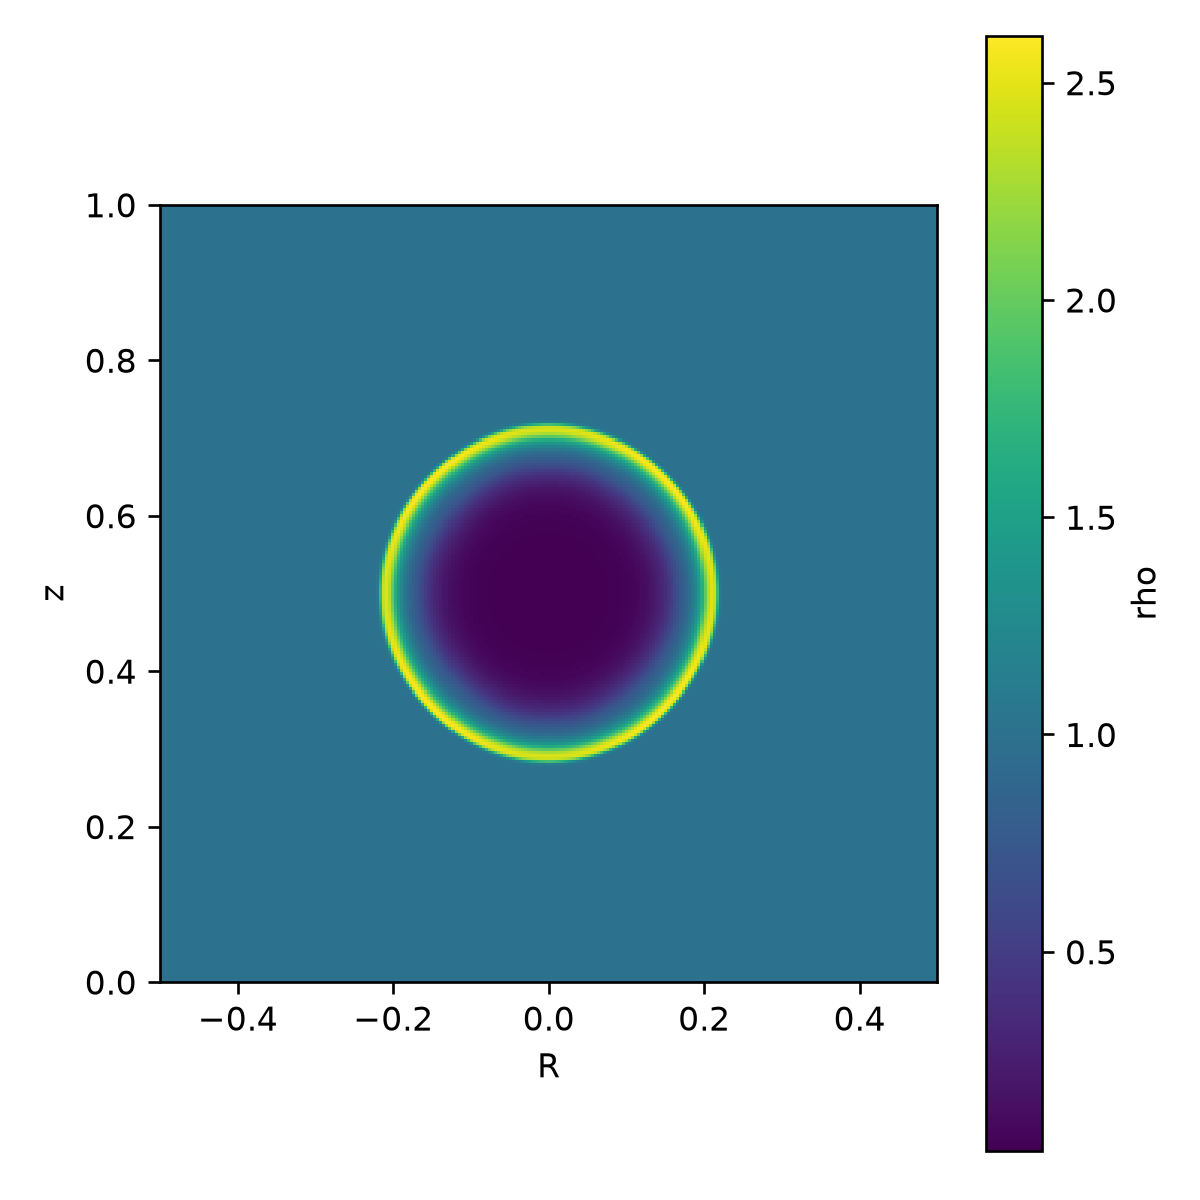
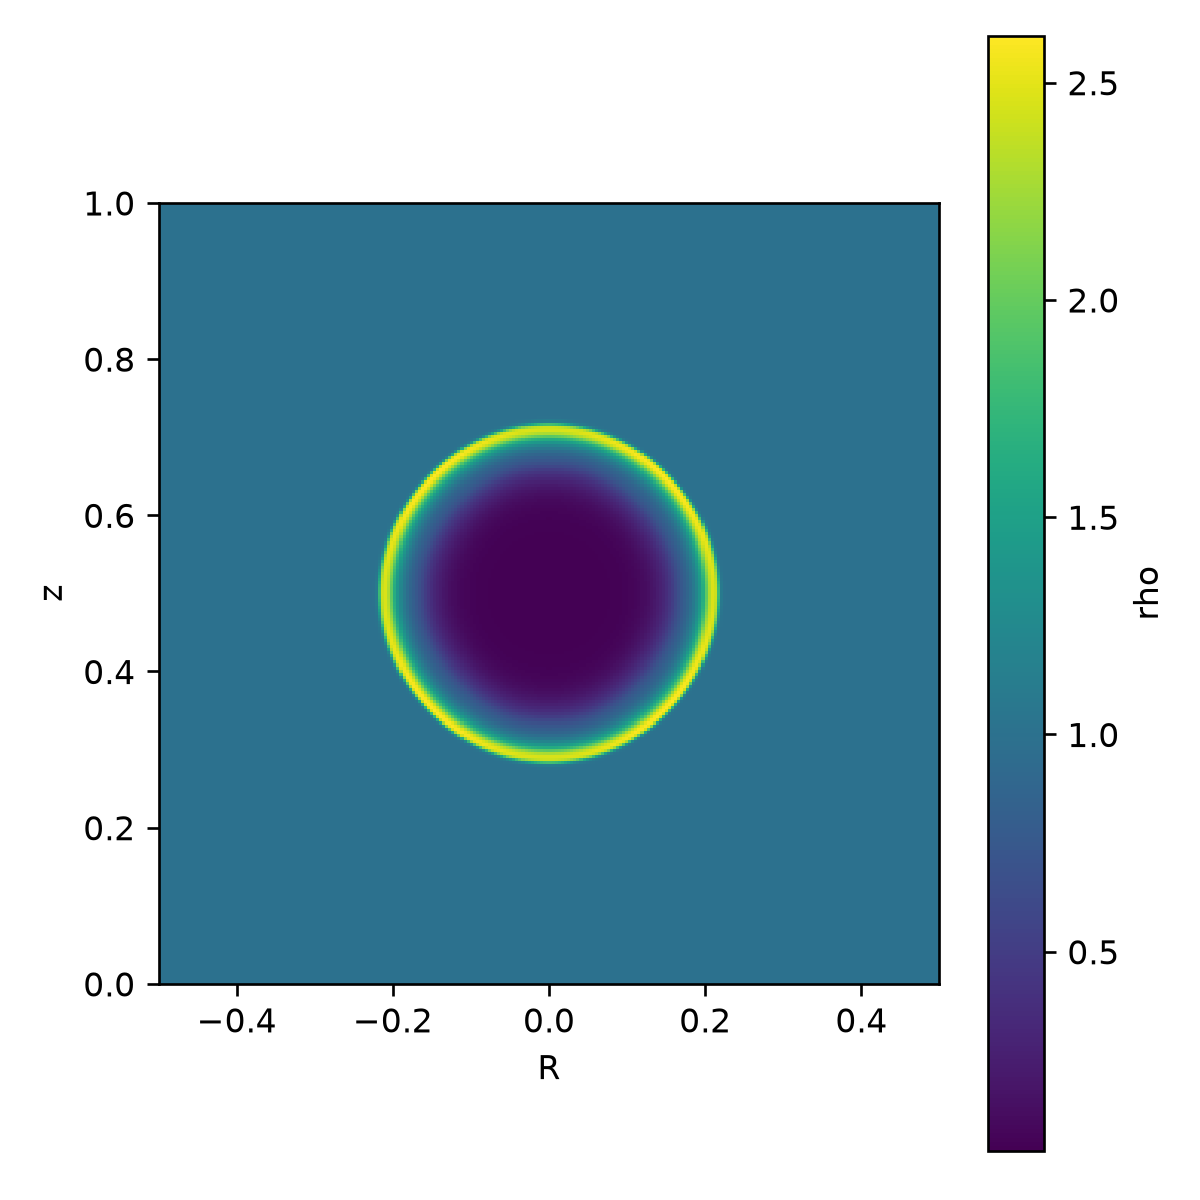
ruff check

diff --git a/adirondax/simulation.py b/adirondax/simulation.py
@@ -1,20 +1,21 @@
-import jax
-import jax.numpy as jnp
-import orbax.checkpoint as ocp
 import json
 import os
 
+import jax
+import jax.numpy as jnp
+import orbax.checkpoint as ocp
+
 from .constants import constants
+from .gravity import calculate_gravitational_potential, get_acceleration
 from .hydro.euler2d import (
+    hydro_euler2d_accelerate,
     hydro_euler2d_fluxes,
     hydro_euler2d_timestep,
-    hydro_euler2d_accelerate,
 )
-from .hydro.mhd2d import hydro_mhd2d_fluxes, hydro_mhd2d_timestep
 from .hydro.geometry import get_geometry
-from .quantum import quantum_kick, quantum_drift, quantum_timestep
-from .gravity import calculate_gravitational_potential, get_acceleration
-from .utils import set_up_parameters, print_parameters
+from .hydro.mhd2d import hydro_mhd2d_fluxes, hydro_mhd2d_timestep
+from .quantum import quantum_drift, quantum_kick, quantum_timestep
+from .utils import print_parameters, set_up_parameters
 from .visualization import plot_sim
 
 
@@ -96,13 +97,14 @@ class Simulation:
                     "Gravity only implemented for periodic boundary conditions."
                 )
 
-        if self.params["output"]["save"] and self.params["time"]["num_timesteps"] > 0:
-            if (
-                self.params["time"]["num_timesteps"]
-                % self.params["output"]["num_checkpoints"]
-                != 0
-            ):
-                raise ValueError("'num_checkpoints' must divide 'num_timesteps'")
+        if (
+            self.params["output"]["save"]
+            and self.params["time"]["num_timesteps"] > 0
+            and self.params["time"]["num_timesteps"]
+            % self.params["output"]["num_checkpoints"]
+            != 0
+        ):
+            raise ValueError("'num_checkpoints' must divide 'num_timesteps'")
 
         # print info
         if jax.process_index() == 0:
@@ -269,14 +271,14 @@ class Simulation:
         bc_x = self.params["mesh"]["boundary_condition"][0]
         bc_y = self.params["mesh"]["boundary_condition"][1]
 
-        use_adaptive_timesteps = True if nt < 1 else False
+        use_adaptive_timesteps = nt < 1
         dt_ref = jnp.nan if use_adaptive_timesteps else t_span / nt
 
         # boundary conditions. The cylindrical axis is a reflecting boundary
         # with an extra twist: the azimuthal velocity reverses through R=0.
-        bc_x_is_axis = True if bc_x == "axis" else False
-        bc_x_is_reflective = True if bc_x in ("reflective", "axis") else False
-        bc_y_is_reflective = True if bc_y == "reflective" else False
+        bc_x_is_axis = bc_x == "axis"
+        bc_x_is_reflective = bc_x in ("reflective", "axis")
+        bc_y_is_reflective = bc_y == "reflective"
 
         # mesh metric factors: 'geom' on the bare grid, 'geom_work' on the
         # ghost-extended grid the flux routine operates on
@@ -317,9 +319,7 @@ class Simulation:
         save = self.params["output"]["save"]
         num_checkpoints = self.params["output"]["num_checkpoints"]
         if save:
-            checkpoint_dir = checkpoint_dir = os.path.join(
-                os.getcwd(), self.params["output"]["path"]
-            )
+            checkpoint_dir = os.path.join(os.getcwd(), self.params["output"]["path"])
             path = os.path.join(os.getcwd(), checkpoint_dir)
             if jax.process_index() == 0:
                 path = ocp.test_utils.erase_and_create_empty(checkpoint_dir)
@@ -498,7 +498,7 @@ class Simulation:
                     return step_fn(carry), None
 
                 if save:
-                    nt_sub = int(round(nt / num_checkpoints))
+                    nt_sub = round(nt / num_checkpoints)
                     for i in range(1, num_checkpoints + 1):
                         carry, _ = jax.lax.scan(
                             step_fn_stacked, carry, xs=None, length=nt_sub

diff --git a/examples/logo_inverse_problem/logo_inverse_problem_optax.py b/examples/logo_inverse_problem/logo_inverse_problem_optax.py
@@ -1,18 +1,14 @@
+import time
+from typing import NamedTuple
+
+import chex
 import jax
 import jax.numpy as jnp
-
-# TODO: REMOVE THE FOLLOWING LINES
-import sys
-
-sys.path.append("../../")
+import matplotlib.image as img
+import matplotlib.pyplot as plt
+import optax
 
 import adirondax as adx
-import chex
-from typing import NamedTuple
-import optax
-import time
-import matplotlib.pyplot as plt
-import matplotlib.image as img
 
 """
 Solve an Inverse-Problem that finds the initial wave function phases that

diff --git a/examples/logo_inverse_problem/logo_inverse_problem.py b/examples/logo_inverse_problem/logo_inverse_problem.py
@@ -1,16 +1,12 @@
+import time
+
 import jax
 import jax.numpy as jnp
-
-# TODO: REMOVE THE FOLLOWING LINES
-import sys
-
-sys.path.append("../../")
+import matplotlib.image as img
+import matplotlib.pyplot as plt
+from jaxopt import ScipyMinimize
 
 import adirondax as adx
-from jaxopt import ScipyMinimize
-import time
-import matplotlib.pyplot as plt
-import matplotlib.image as img
 
 """
 Solve an Inverse-Problem that finds the initial wave function phases that

diff --git a/examples/orszag_tang/orszag_tang.py b/examples/orszag_tang/orszag_tang.py
@@ -1,14 +1,10 @@
+import time
+
 import jax.numpy as jnp
-
-# TODO: REMOVE THE FOLLOWING LINES
-import sys
-
-sys.path.append("../../")
+import matplotlib.pyplot as plt
 
 import adirondax as adx
-from adirondax.hydro.common2d import get_curl, get_avg
-import time
-import matplotlib.pyplot as plt
+from adirondax.hydro.common2d import get_avg, get_curl
 
 # switch on for double precision
 # jax.config.update("jax_enable_x64", True)

diff --git a/adirondax/utils.py b/adirondax/utils.py
@@ -1,10 +1,11 @@
-import sys
-import os
-import importlib.util
-from pathlib import Path
 import importlib.resources
+import importlib.util
 import json
-from importlib.metadata import version, PackageNotFoundError
+import os
+import sys
+from importlib.metadata import PackageNotFoundError, version
+from pathlib import Path
+
 import jax
 
 

diff --git a/examples/sedov/sedov.py b/examples/sedov/sedov.py
@@ -1,13 +1,9 @@
+import time
+
 import jax.numpy as jnp
-
-# TODO: REMOVE THE FOLLOWING LINES
-import sys
-
-sys.path.append("../../")
+import matplotlib.pyplot as plt
 
 import adirondax as adx
-import time
-import matplotlib.pyplot as plt
 
 """
 Simulate a Sedov-Taylor blast wave on an axisymmetric cylindrical (R,z) mesh

diff --git a/adirondax/hydro/mhd2d.py b/adirondax/hydro/mhd2d.py
@@ -1,11 +1,12 @@
 import jax.numpy as jnp
+
 from .common2d import (
-    get_curl,
+    apply_fluxes,
+    extrapolate_to_face,
     get_avg,
+    get_curl,
     get_gradient,
     slope_limit,
-    extrapolate_to_face,
-    apply_fluxes,
 )
 
 # Pure functions for 2D magnetohydrodynamics

diff --git a/examples/kelvin_helmholtz/kelvin_helmholtz.py b/examples/kelvin_helmholtz/kelvin_helmholtz.py
@@ -1,13 +1,9 @@
+import time
+
 import jax.numpy as jnp
-
-# TODO: REMOVE THE FOLLOWING LINES
-import sys
-
-sys.path.append("../../")
+import matplotlib.pyplot as plt
 
 import adirondax as adx
-import time
-import matplotlib.pyplot as plt
 
 """
 Simulate the Kelvin-Helmholtz instability

diff --git a/examples/rayleigh_taylor/rayleigh_taylor.py b/examples/rayleigh_taylor/rayleigh_taylor.py
@@ -1,13 +1,9 @@
+import time
+
 import jax.numpy as jnp
-
-# TODO: REMOVE THE FOLLOWING LINES
-import sys
-
-sys.path.append("../../")
+import matplotlib.pyplot as plt
 
 import adirondax as adx
-import time
-import matplotlib.pyplot as plt
 
 """
 Simulate the Rayleigh-Taylor Instability

diff --git a/examples/gresho/gresho.py b/examples/gresho/gresho.py
@@ -1,13 +1,9 @@
+import time
+
 import jax.numpy as jnp
-
-# TODO: REMOVE THE FOLLOWING LINES
-import sys
-
-sys.path.append("../../")
+import matplotlib.pyplot as plt
 
 import adirondax as adx
-import time
-import matplotlib.pyplot as plt
 
 """
 Simulate the Gresho Vortex

diff --git a/adirondax/hydro/euler2d.py b/adirondax/hydro/euler2d.py
@@ -1,5 +1,6 @@
 import jax.numpy as jnp
-from .common2d import get_gradient, slope_limit, extrapolate_to_face, apply_fluxes
+
+from .common2d import apply_fluxes, extrapolate_to_face, get_gradient, slope_limit
 
 # Pure functions for 2D Euler hydrodynamics
 

diff --git a/tests/test_inverse_problem.py b/tests/test_inverse_problem.py
@@ -1,9 +1,11 @@
 import os
+
 import jax
 import jax.numpy as jnp
-import adirondax as adx
-from jaxopt import ScipyMinimize
 import matplotlib.image as img
+from jaxopt import ScipyMinimize
+
+import adirondax as adx
 
 
 def read_target():
